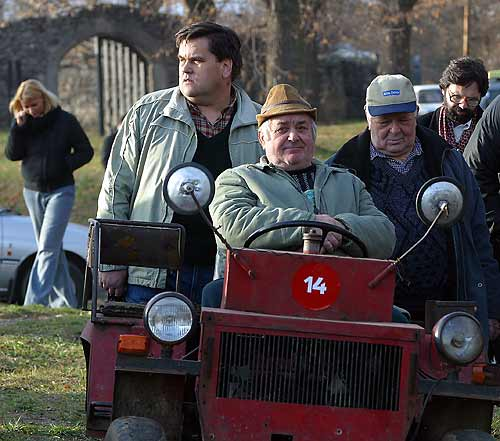
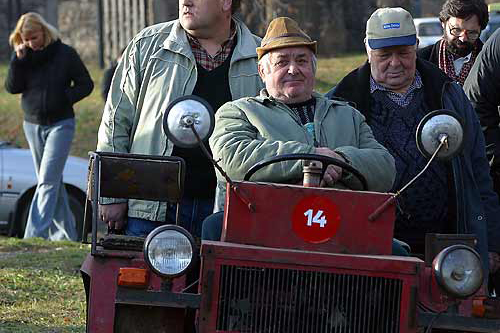
update a few things

diff --git a/content/en/portfolio/konstruktiv/index.md b/content/en/portfolio/konstruktiv/index.md
@@ -1,116 +1,115 @@
-+++
-# Project title.
-title = "Spaces of a Constructive Dialogue"
++++ 
+title = "Spaces of a Constructive Dialogue" 
 subtitle = "A konstruktív párbeszéd terei - a socially engaged public art programme"
 
 # Date this page was created.
+
 date = 2026-03-21T00:00:00
 
 # Project summary to display on homepage.
-summary = "Ex ante and ex post grant evaluation"
+
+summary = "An early experiment in socially engaged public art, creating dialogue between artistic practice and public life through collaborative, multi-stakeholder cultural interventions."
 
 # Tags: can be used for filtering projects.
-# Example: `tags = ["royalties", "pcr"]`
+
 tags = ["public art", "Hungary", "inclusion"]
 
 # Optional external URL for project (replaces project detail page).
+
 external_link = ""
 
 # Slides (optional).
-#   Associate this project with Markdown slides.
-#   Simply enter your slide deck's filename without extension.
-#   E.g. `slides = "example-slides"` references 
-#   `content/slides/example-slides.md`.
-#   Otherwise, set `slides = ""`.
+# `content/slides/example-slides.md`.
+# Otherwise, set `slides = ""`.
+
 slides = ""
 
-# Links (optional).
-url_pdf = ""
-url_slides = ""
-url_video = ""
-url_code = ""
-
-# Custom links (optional).
-#   Uncomment line below to enable. For multiple links, use the form `[{...}, {...}, {...}]`.
-#url_custom = [{icon_pack = "fab", icon="twitter", name="Follow", url = "https://twitter.com/georgecushen"}]
-
 # Featured image
-# To use, add an image named `featured.jpg/png` to your project's folder. 
+# To use, add an image named `featured.jpg/png` to your project's folder.
 
-[image]
-  # Caption (optional)
+[image] 
   caption = "Lajos Gyenes with his self-created utility vechicle. Photo by Endre Koronczi."
-
-  focal_point = "Smart"
+  focal_point = "Smart" 
+  
 +++
 
+This project, developed more than twenty years ago shortly after my
+participation in a UK future leaders programme, represents one of my earliest
+attempts to create a structured, collaborative platform for emerging artists and
+curators. Conceived and executed by a group of very young practitioners, the
+initiative combined curatorial experimentation, documentation, and
+network-building at a time when such cross-disciplinary approaches were far less
+formalised than today.
 
-This project, developed more than twenty years ago shortly after my participation
-in a UK future leaders programme, represents one of my earliest attempts to create a
-structured, collaborative platform for emerging artists and curators.
-Conceived and executed by a group of very young practitioners, the initiative
-combined curatorial experimentation, documentation, and network-building at a
-time when such cross-disciplinary approaches were far less formalised than today.
-
-The archival documents reflect both the ambition and the limitations of that moment:
-they are exploratory, the documentation is uneven, but already articulate a clear intention
-to connect artistic practice with broader structures, and the selected
-artists and their work is timeless. Looking back, what is most striking is not
-the program's polish, but its orientation toward collaboration, visibility,
-and long-term cultural positioning—principles that have remained central in my later work.
+The archival documents reflect both the ambition and the limitations of that
+moment: they are exploratory, the documentation is uneven, but already
+articulate a clear intention to connect artistic practice with broader
+structures, and the selected artists and their work is timeless. Looking back,
+what is most striking is not the program's polish, but its orientation toward
+collaboration, visibility, and long-term cultural positioning—principles that
+have remained central in my later work.
 
 A decade after the project, several of the participants went on to establish
 themselves as significant figures in the cultural field, developing independent
-artistic practices and contributing to international exhibitions and curatorial platforms.
-For example, curator Barnabás Bencsik later became the director of the Ludwig Museum,
-Endre Koronczi one of the most respected and socially engaged creative artists of
-Hungary, the young photographer Gergő László founded Lumen, which remains an iconic
-cultural location in Budapest, and Samu Szemery, co-curator of the architectural interventions
-on the branch lines of Nógrád County railways, became one of the founders of Hungary's
-Contemporary Architecture Centre. I remain grateful for their enthusiastic participation,
+artistic practices and contributing to international exhibitions and curatorial
+platforms. For example, curator Barnabás Bencsik later became the director of
+the Ludwig Museum, Endre Koronczi one of the most respected and socially engaged
+creative artists of Hungary, the young photographer Gergő László founded Lumen,
+which remains an iconic cultural location in Budapest, and became an established
+artist at [Technica Schweitz](https://tehnicaschweiz.com/). Their first credited
+work is the result of our collaboration.
+
+[![Technica Schweitz: Ingázó tüzérek I-VIII (2006), in the permanent collection
+of Ludwig
+Museum.](https://www.ludwigmuseum.hu/system/files/styles/gallery_image_lg/private/mplus/multimedia/2017/10/Tehnica_sweiz_j.jpg?itok=RmMqhNp-)](https://www.ludwigmuseum.hu/mutargy/ingazo-tuzerek-i-viii)
+
+Samu Szemery, co-curator of the architectural interventions on the branch lines
+of Nógrád County railways, became one of the founders of Hungary's Contemporary
+Architecture Centre. I remain grateful for their enthusiastic participation,
 bravery, and friendship.
 
 For me, this work marks a formative moment: an early prototype of the ecosystem
-thinking that would later underpin initiatives such as Reprex and the
-Open Music Observatory in a much more formalised and technological form. While the documents belong to a different stage of life,
-they already reveal a consistent concern with how cultural value is created,
-documented, and sustained over time—an interest that continues to define my
-professional and research practice.
+thinking that would later underpin initiatives such as Reprex and the Open Music
+Observatory in a much more formalised and technological form. While the
+documents belong to a different stage of life, they already reveal a consistent
+concern with how cultural value is created, documented, and sustained over
+time—an interest that continues to define my professional and research practice.
 
-The programme itself, titled _Spaces of a Constructive Discourse_, was conceived as follows:
+The programme itself, titled *Spaces of a Constructive Discourse*, was conceived
+as follows:
 
 ## Spaces of a Constructive Discourse
 
 The programme was conceived as a structured initiative to create new forms of
-dialogue between cultural production and public life in Hungary during a period of
-social and economic transition, just in the months of Hungary's EU accession.
-It aimed to explore how public art and cultural interventions could contribute to
-addressing societal issues, particularly where traditional institutional channels
-were limited or ineffective. Rather than treating art as autonomous,
-the programme positioned it as an active medium for engaging with public concerns
-and social realities.
+dialogue between cultural production and public life in Hungary during a period
+of social and economic transition, just in the months of Hungary's EU accession.
+It aimed to explore how public art and cultural interventions could contribute
+to addressing societal issues, particularly where traditional institutional
+channels were limited or ineffective. Rather than treating art as autonomous,
+the programme positioned it as an active medium for engaging with public
+concerns and social realities.
 
-At its core, the initiative functioned as a multi-stakeholder platform,
-bringing together artists, sociologists, civil society actors, policymakers,
-and local communities. Through workshops, discussions, and pilot projects,
-it created a space where different forms of knowledge—artistic, social scientific,
-and administrative—could interact. The intention was not only to
-generate artistic outcomes, but to enable mutual learning and to integrate insights
-from cultural practice into broader policy and institutional frameworks.
+At its core, the initiative functioned as a multi-stakeholder platform, bringing
+together artists, sociologists, civil society actors, policymakers, and local
+communities. Through workshops, discussions, and pilot projects, it created a
+space where different forms of knowledge—artistic, social scientific, and
+administrative—could interact. The intention was not only to generate artistic
+outcomes, but to enable mutual learning and to integrate insights from cultural
+practice into broader policy and institutional frameworks.
 
-A key objective of the programme was to expand participation in public discourse,
-particularly by including voices that had previously been excluded from
-decision-making processes. It sought to develop mechanisms through which cultural
-projects could surface local problems, articulate new perspectives,
-and feed these back into governance and reform processes. In this sense, the programme
-anticipated later approaches to participatory culture and socially engaged art,
-framing cultural activity as part of a wider system of societal feedback and
-transformation.
+A key objective of the programme was to expand participation in public
+discourse, particularly by including voices that had previously been excluded
+from decision-making processes. It sought to develop mechanisms through which
+cultural projects could surface local problems, articulate new perspectives, and
+feed these back into governance and reform processes. In this sense, the
+programme anticipated later approaches to participatory culture and socially
+engaged art, framing cultural activity as part of a wider system of societal
+feedback and transformation.
 
-Operationally, the programme followed a structured workflow: identifying social problems,
-conducting research, implementing public interventions, and evaluating outcomes,
-followed by feedback loops into future actions. It also placed strong emphasis on
-partnerships and clearly defined roles (curators, coordinators, mediators).
-Taken together, it can be understood as an early attempt to design cultural production as a
-systemic, collaborative process—linking artistic experimentation with institutional
-learning and long-term social impact.
+Operationally, the programme followed a structured workflow: identifying social
+problems, conducting research, implementing public interventions, and evaluating
+outcomes, followed by feedback loops into future actions. It also placed strong
+emphasis on partnerships and clearly defined roles (curators, coordinators,
+mediators). Taken together, it can be understood as an early attempt to design
+cultural production as a systemic, collaborative process—linking artistic
+experimentation with institutional learning and long-term social impact.

diff --git a/content/en/authors/daniel_antal/_index.md b/content/en/authors/daniel_antal/_index.md
@@ -11,7 +11,7 @@ authors:
 superuser: true
 
 # Role/position
-role: Data Scientist & Co-Founder of Reprex BV
+role: Data Scientist & Founder of Reprex BV
 
 # Organizations/Affiliations
 organizations:
@@ -21,7 +21,7 @@ organizations:
   url: "https://www.ivir.nl/employee/antaldaniel/"
 
 # Short bio (displayed in user profile at end of posts)
-bio: My research interests include reproducible social science, economics and finance.
+bio: Data and AI entrepreneur working with cultural data, with a life-long passion for photography.
 
 topics:
 - Intangible Assets / Royalty Valuation
@@ -69,10 +69,12 @@ email: ""
 # Organizational groups that you belong to (for People widget)
 #   Set this to `[]` or comment out if you are not using People widget.
 user_groups:
-- Data Scientists
+- personal
 ---
 
 
-I am a data and AI entrepreneur and innovator with a long track record of working with the cultural sector and creative industries. As the founder of Reprex, a for-profit impact startup aligned with selected UN Sustainable Development Goals, I work with open data, open-source software, and open platforms. These platforms, such as the Open Music Observatory or OpenCollections, are designed to enable public–private partnerships that help independent, niche, and minority cultural content remain visible and fairly remunerated on global platforms. You can read more about my professional work and related scientific R&D activities on the [Reprex](https://reprex.nl/) website.
+I am a data and AI entrepreneur and innovator working at the intersection of cultural heritage, data, and digital infrastructures. As the founder of Reprex, a for-profit impact startup aligned with selected UN Sustainable Development Goals, I develop open data, open-source software, and open platforms that enable public–private collaboration in the cultural sector. Initiatives such as the Open Music Observatory and OpenCollections are designed to help independent, niche, and minority cultural content remain visible and fairly remunerated on global platforms. You can read more about my professional work and related scientific R&D activities on the [Reprex](https://reprex.nl/) website.
 
-Throughout my life, I have maintained a strong interest in various forms of art. Coming from a family of musicians and photographers, I work professionally with music and have been actively involved in photography since the age of eight. I can create and restore both archaic and modern analogue photographs, as well as digital images and scans; I also work with locating photographs and collections, and interpreting their history and production. I enjoy reading and writing in my mother tongue, Hungarian. Thanks to excellent teachers and editors, I have published essays at a high level that I unfortunately cannot reproduce in English, the language I use most days. This attachment to language connects me to Finno-Ugric communities, who are kindred spirits using expressive and, to the outside world, somewhat hidden languages. This personal website is mainly devoted to these interests.
+Throughout my life, I have maintained a strong interest in various forms of art. Coming from a family of musicians and photographers, I work professionally with music and have been actively involved in photography since childhood. My practice includes analogue and digital photography, restoration, and the identification and interpretation of photographic collections and their histories.
+
+I also maintain a close connection to language and literary expression, particularly in Hungarian, my mother tongue. This interest connects me to Finno-Ugric cultures and communities, whose linguistic and cultural expressions remain both distinctive and underrepresented. This personal website reflects these intertwined interests in cultural heritage, photography, music, and open knowledge.

diff --git a/content/en/portfolio/udmurt-photography/index.md b/content/en/portfolio/udmurt-photography/index.md
@@ -1,0 +1,60 @@
++++
+# Project title.
+title = "Creating a collection of historical photographs of Udmurt people, or photographs depicting locations in Udmurtia."
+subtitle = "Удмуртъёс но Удмуртия сярысь люкам исторической снимокъёс, соос пӧлын студиысь, этнографической но экспедициысь туспуктэмъёс"
+
+# Date this page was created.
+date = 2026-03-31T14:00:00
+
+# Project summary to display on homepage.
+summary = "The Finno-Ugric Data Sharing Space is a research-driven data sharing space for reconnecting fragmented cultural heritage across languages, institutions, and countries."
+
+# Tags: can be used for filtering projects.
+tags = ["finnougric", "dataspace", "udmurt", "photography"]
+
+# Optional external URL for project (replaces project detail page).
+external_link = ""
+
+# Slides (optional).
+#   Associate this project with Markdown slides.
+#   Simply enter your slide deck's filename without extension.
+#   E.g. `slides = "example-slides"` references 
+#   `content/slides/example-slides.md`.
+#   Otherwise, set `slides = ""`.
+slides = ""
+
+# Links (optional).
+url_pdf = ""
+url_slides = ""
+url_video = ""
+url_code = ""
+
+# Custom links (optional).
+#   Uncomment line below to enable. For multiple links, use the form `[{...}, {...}, {...}]`.
+#url_custom = [{icon_pack = "fab", icon="twitter", name="Follow", url = "https://twitter.com/antaldaniel"}]
+
+# Featured image
+# To use, add an image named `featured.jpg/png` to your project's folder. 
+[image]
+  # Caption (optional)
+  caption = ""
+  
+  # Focal point (optional)
+  # Options: Smart, Center, TopLeft, Top, TopRight, Left, Right, BottomLeft, Bottom, BottomRight
+  focal_point = "Smart"
++++
+
+The Udmurt Historical Photographs Collection is our growing, open, linked collection 
+of dispersed historical photographs of Udmurt people, or photographs depicting locations in Udmurtia. We create relevant, and openly available photographs (or their digital surrogates) into this collection, and try to put it under the care of the community of Udmurts and researchers of Udmurt cultural history.
+
+Our aim is to find in Estonian, Finnish, Hungarian and other collections relevant photographs or provenance information, and try to validate, enrich or repair it with the knowledge of Udmurts. 
+
+{{< cta text="Look at this" url="https://example.com/blog" >}}
+
+For example, the back side has a strange, hard to decipher historical location (Gombur-Gurt and Medemuka) in phonetic German transliteration for a placename of a photograph on a “Udmurt woman.” The photograph is a part of a series in the photographic collection of the Estonian National Museum. (Unfortunately, some elements were removed during the 1950s by the Soviet censor.)  It requires a good command of Udmurt and local historical cartography knowledge to locate the geographical provenance of this photograph. Solving this puzzle then solves many other problems with this material, and also offers the hope that we can find the lost elements of this series in another collection.
+ 
+
+
+{{< figure src="/media/webp/udmurts/Unknown_Udmurt_woman_backside.webp" title="web" >}}
+
+

diff --git a/content/en/portfolio/wikimuseum/index.md b/content/en/portfolio/wikimuseum/index.md
@@ -8,7 +8,7 @@ date = 2025-09-24T00:00:00
 lastmod = 2026-03-31T18:19:00+02:00
 
 # Project summary to display on homepage.
-summary = "Wikimuseum is an experimental curatorial concept developed with Wikimedia Eesti and Wikimedia Hungary, creating multilingual, co-curated exhibitions across Wikimedia Commons, Wikidata, and Wikipedia. It brings together dispersed cultural heritage—often never seen together physically—into structured digital exhibitions that connect institutional collections, private archives, and community knowledge. The project explores how open platforms can support collaboration between museums, researchers, and source communities, while addressing legal, ethical, and data governance  challenges."
+summary = "Wikimuseum is a multilingual, Wikimedia-based curatorial concept linking dispersed cultural heritage into co-curated digital exhibitions across Commons, Wikidata, and Wikipedia."
 
 # Tags: can be used for filtering projects.
 tags = ["museum", "wikimuseum", "decolonisation", "governance"]
